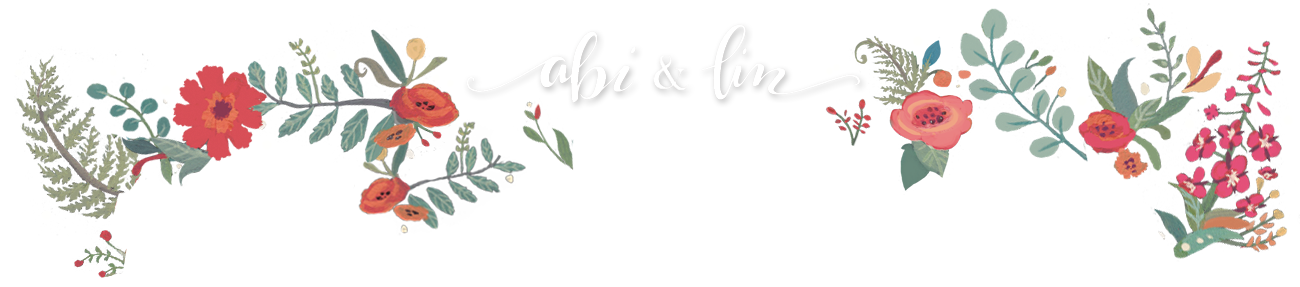
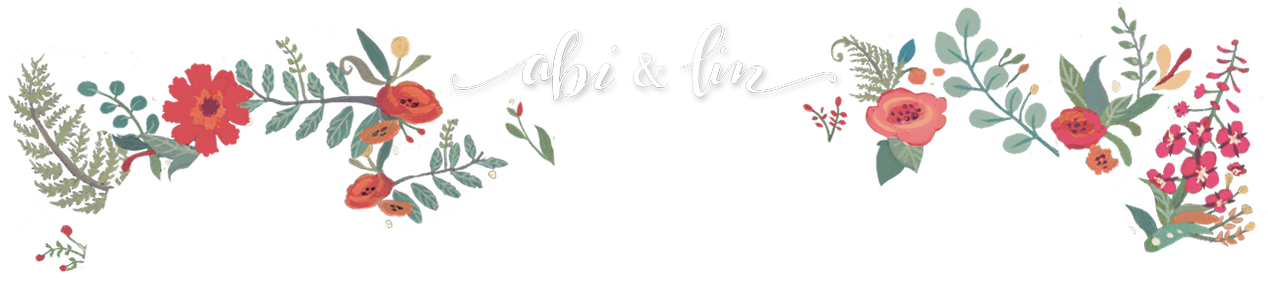
content for the_party page

diff --git a/app/assets/stylesheets/base.sass b/app/assets/stylesheets/base.sass
@@ -10,7 +10,7 @@ body
   margin: auto
   margin-bottom: -147px
   height: 288px
-  width: 1300px
+  width: 1280px
   background-image: url('/assets/bg_header.png')
   background-repeat: no-repeat
 
